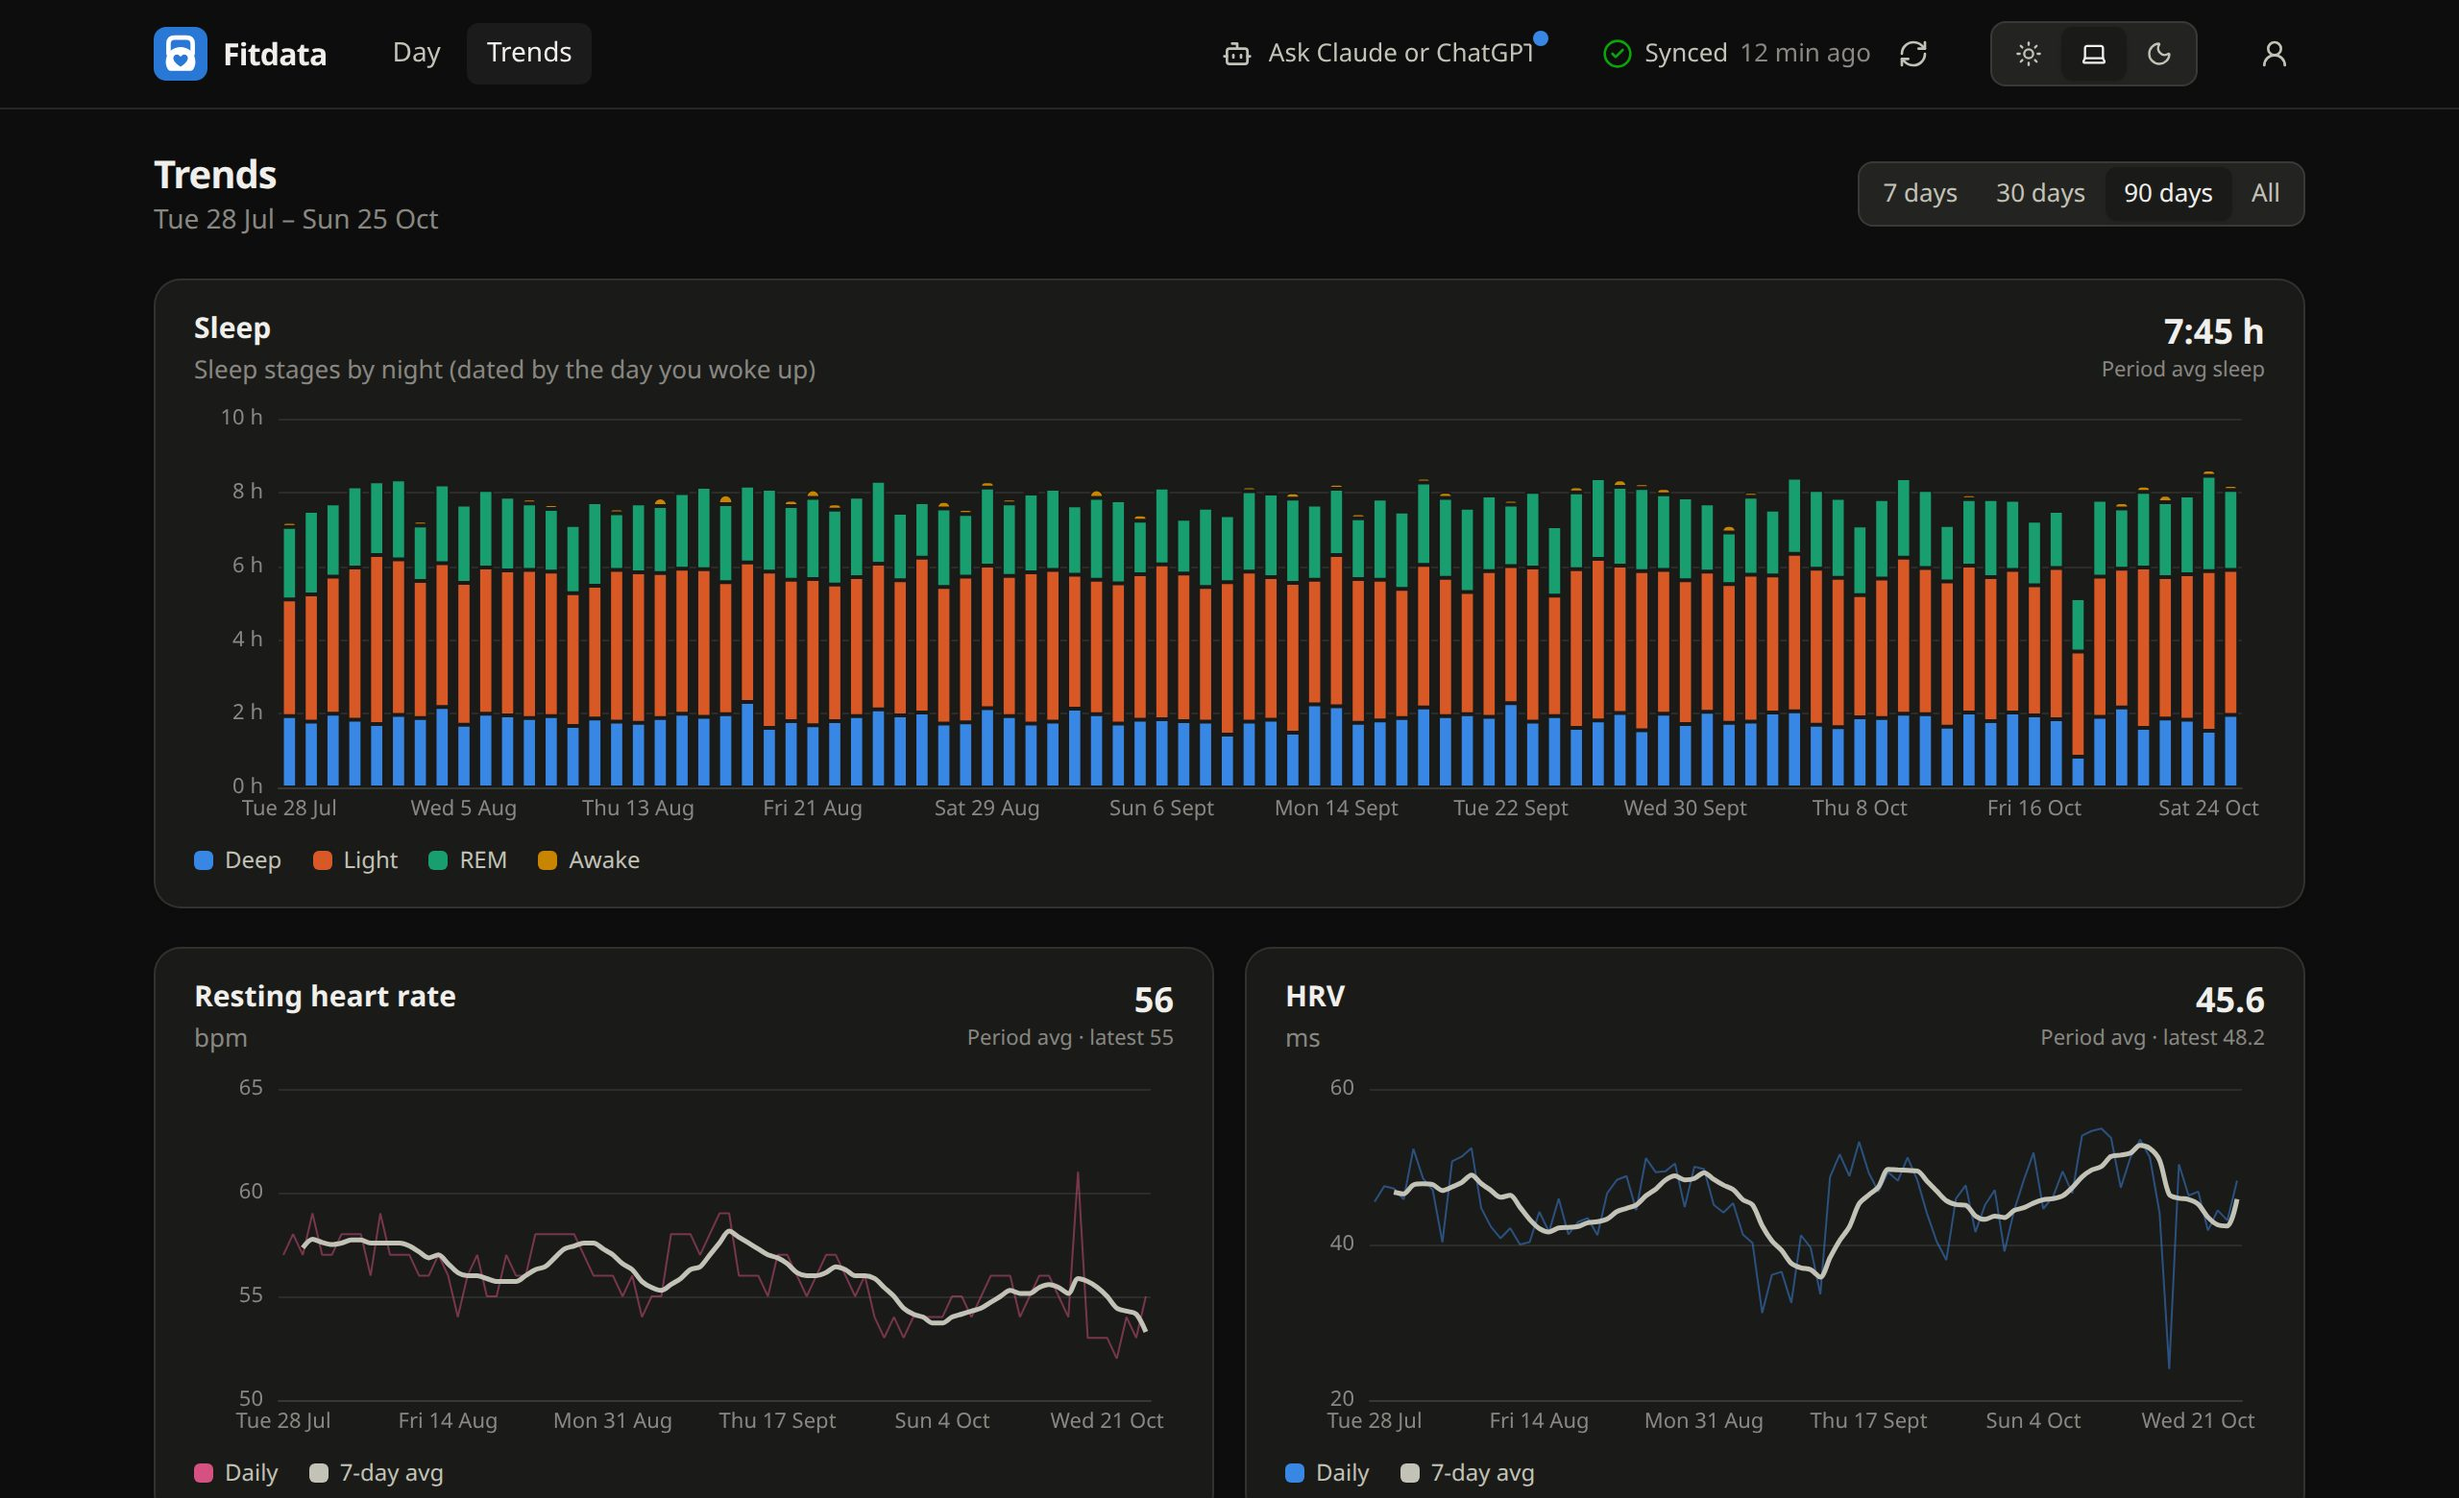
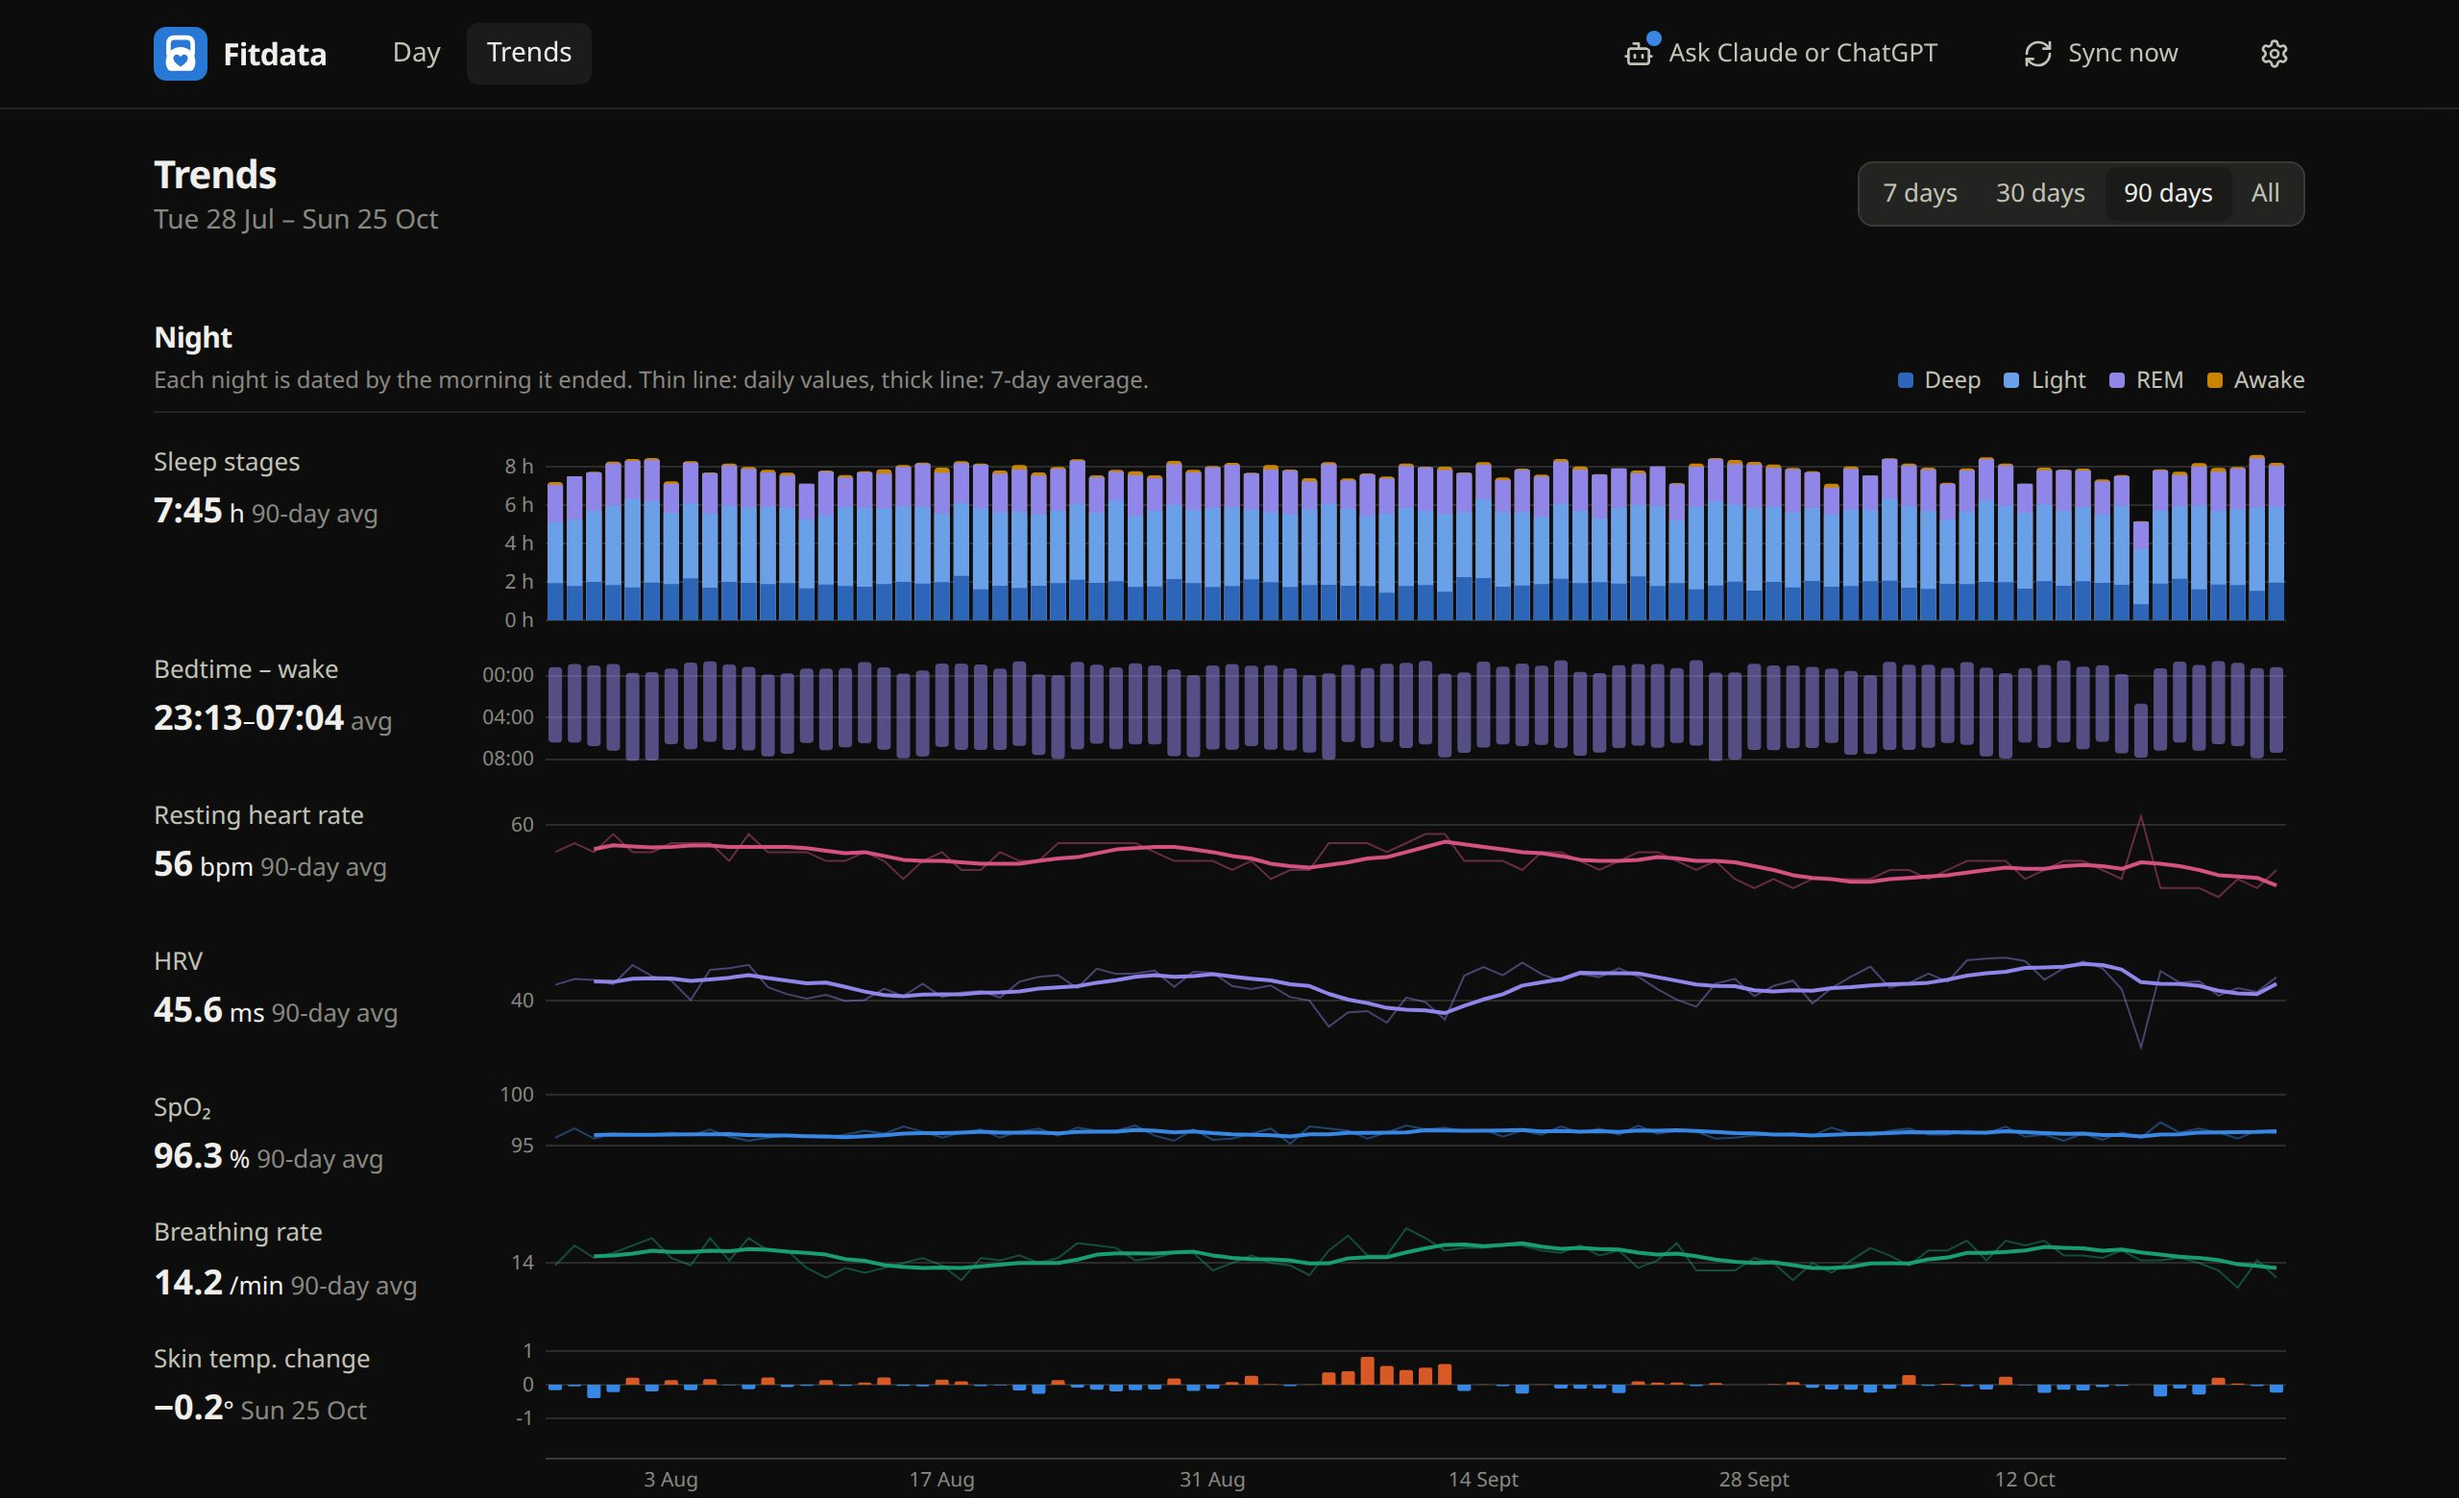
Home page screenshots of the new day and trends design
The screenshots still showed the ECharts cards. They are shot again from
the new design with the same made-up data (scripts/demo_data.py served
by `fitdata serve --dev-user`), in light and dark, at the same size; the
alt texts describe what is now in them.

diff --git a/frontend/home.html b/frontend/home.html
@@ -95,7 +95,7 @@
           </div>
           <picture>
             <source srcset="/src/home/trends-dark.jpg" media="(prefers-color-scheme: dark)" />
-            <img src="/src/home/trends-light.jpg" alt="The Fitdata trends view: sleep stages by night and resting heart rate and HRV over 90 days" width="2560" height="1560" class="block h-auto w-full" loading="lazy" />
+            <img src="/src/home/trends-light.jpg" alt="The Fitdata trends view over 90 days: sleep stages, bedtime and wake time, resting heart rate, HRV, SpO₂, breathing rate and skin temperature, night by night" width="2560" height="1560" class="block h-auto w-full" loading="lazy" />
           </picture>
         </figure>
           </div>
@@ -107,7 +107,7 @@
           </div>
           <picture>
             <source srcset="/src/home/day-dark.jpg" media="(prefers-color-scheme: dark)" />
-            <img src="/src/home/day-light.jpg" alt="The Fitdata day view: sleep, resting heart rate, HRV, steps and other metrics above a chart of heart rate and steps through the day" width="2560" height="1600" class="block h-auto w-full" />
+            <img src="/src/home/day-light.jpg" alt="The Fitdata day view: the night&apos;s and the day&apos;s key numbers above the night in detail: sleep stages, heart rate, SpO₂ and HRV on one time axis, with a sleep summary beside them" width="2560" height="1600" class="block h-auto w-full" />
           </picture>
         </figure>
           </div>
